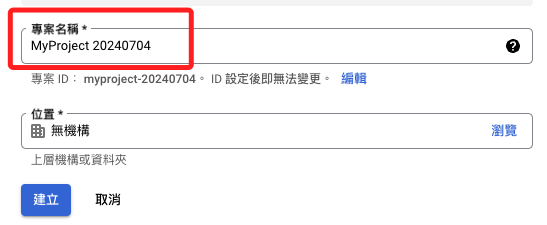
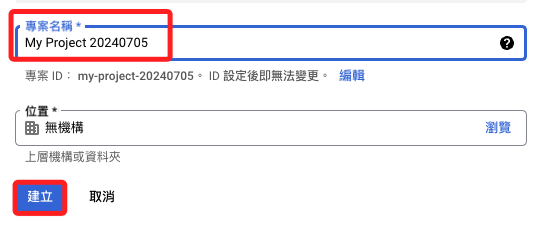
update

Changed region(s): [[0.0, 0.0311, 0.976, 0.3733], [0.0296, 0.4667, 0.976, 0.7467], [0.0, 0.7778, 0.2366, 0.9956]]

diff --git a/D31_Google Gemini/02_結合 Cloud Function/01_Cloud Function.md b/D31_Google Gemini/02_結合 Cloud Function/01_Cloud Function.md
@@ -119,37 +119,43 @@ _可使用 `Google Cloud Console` 或 `gcloud CLI` 建立並部署 `Cloud Functi
 
 <br>
 
-3. 寫入名稱，其餘預設即可。
+3. 寫入名稱，其餘預設即可，點擊 `建立` 後等待建立完成。
 
     ![](images/img_55.png)
 
 <br>
 
-4. 搜尋 `Cloud Functions API`。
+4. 選取所建立的專案。
+
+    ![](images/img_59.png)
+
+<br>
+
+5. 搜尋 `Cloud Functions API`。
 
     ![](images/img_01.png)
 
 <br>
 
-5. 啟用。
+6. 啟用。
 
     ![](images/img_56.png)
 
 <br>
 
-6. 必須有憑證才能使用，所以先建立憑證。
+7. 必須有憑證才能使用，所以先建立憑證。
 
     ![](images/img_57.png)
 
 <br>
 
-7. 勾選 `使用者資料` 後點擊 `完成`。
+8. 勾選 `使用者資料` 後點擊 `完成`。
 
     ![](images/img_58.png)
 
 <br>
 
-8. 進入 `Cloud Functions` 後點擊 `建立函式`。
+9. 進入 `Cloud Functions` 後點擊 `建立函式`。
 
     ![](images/img_02.png)
 
